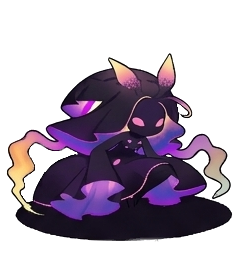
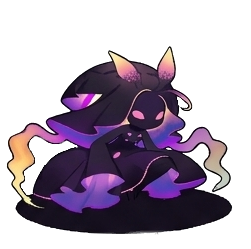
しゃがみコマ数調整（モンスター作成スタジオから登録）

diff --git a/index.html b/index.html
@@ -63,13 +63,14 @@
     </div>
     <button id="btn-home-history" class="icon-btn-corner home-history-button" title="更新履歴" aria-label="更新履歴を開く">📜</button>
     <button id="btn-home-settings" class="icon-btn-corner" title="設定">⚙</button>
-    <small class="home-version">Version 1.27</small>
+    <small class="home-version">Version 1.28</small>
     <button id="btn-debug" class="debug-entry hidden">管理者</button>
     <div id="home-history-modal" class="home-history-modal hidden" role="dialog" aria-modal="true" aria-labelledby="home-history-title">
       <div class="home-history-dialog">
         <button id="home-history-close" class="home-history-close" aria-label="閉じる">×</button>
         <h2 id="home-history-title">📜 更新履歴</h2>
         <div class="home-history-list">
+          <article><time>Version 1.28</time><strong>しゃがみコマ数調整</strong><p>しゃがみコマ数こまこま</p></article>
           <article><time>Version 1.27</time><strong>モンスター作成スタジオ：登録済みモーションを読み込んで微調整できるようにしました</strong><p>※この回はゲーム側の変更はありません。<b>モンスター作成スタジオ</b>の機能追加です。<br>これまで、登録済みのモーションを直したい時は<b>元の画像を選び直すところからやり直し</b>でした。「コマ送りが少し速い」「足元をあと数px下げたい」「もう少し透過を詰めたい」といった小さな手直しでも作り直しになり、元の素材が手元に無いと直せない状態でした。<br>モーションの編集画面に<b>「登録済みのコマを読み込んで編集する」</b>を追加しました。押すと今そのモンスターに登録されているコマがそのまま読み込まれ、<b>1コマの表示フレーム数・足元の位置・表示サイズ</b>を動かせるほか、前回追加した<b>コマごとの背景ブラシ</b>や<b>コマ個別の抜き方</b>もそのまま使えます。<br>読み込んだ時は<b>登録時の見た目をそのまま復元</b>します。足元と表示サイズは登録時の値から逆算して合わせ直し、当たり判定の横幅も勝手に書き換えません。そのため、読み込んだだけではゲーム内の大きさや立ち位置は一切変わりません。書き戻し先も登録済みと同じ場所なので、直したいところだけ直して確定できます。</p></article>
           <article><time>Version 1.26</time><strong>イルミネしゃがみモーション追加</strong><p>イルミネしゃがみモーション追加！</p></article>
           <article><time>Version 1.25</time><strong>モンスター作成スタジオ：背景の透過をコマごとに調整できるようにしました</strong><p>※この回はゲーム側の変更はありません。<b>モンスター作成スタジオ</b>の機能追加です。<br>これまで背景の透過は<b>モーション全体に同じ設定</b>しかかけられず、コマによって背景の明るさが違う素材だと、どこかのコマが必ず抜けきらない状態でした。画像を並べて追加した時・動画からコマを取り出した時・スプライトシートを読み込んだ時の<b>すべてで、コマごとに設定できる</b>ようになります。<br>コマ一覧の各コマに<b>鉛筆ボタン</b>が付きました。押すとそのコマだけを大きく表示する調整画面が開きます。ここでは<b>背景ブラシ</b>が使えます。<b>消す</b>でなぞった所を透明にし、<b>戻す</b>で自動処理が消しすぎた所を元の絵に戻せます。<b>ブラシの大きさ</b>と<b>やわらかさ</b>を指定でき、やわらかくすると縁がぼやけて自然になじみます。1つ戻す・塗りを全部消すも用意しました。2本指でつまむと拡大縮小、「移動」で位置をずらせます。<br>同じ画面で<b>このコマだけ別の抜き方にする</b>（四隅/白/黒/透過済みと、しきい値）も選べます。手を入れたコマには一覧で印が付くので、どのコマを触ったか後から分かります。<br>あわせて、<b>スプライトシートの取り込み</b>を作り直しました。以前は取り込む時点で背景を抜いた絵を素材にしていたため、取り込んだ後からしきい値を変えられませんでした。今は<b>抜く前の絵を素材として持つ</b>ので、取り込んだ後でも何度でも調整し直せます（足元そろえはこれまでどおり働きます）。</p></article>

diff --git a/service-worker.js b/service-worker.js
@@ -1,4 +1,4 @@
-const CACHE_NAME = 'smamon-app-v127';
+const CACHE_NAME = 'smamon-app-v128';
 const APP_SHELL = [
   './',
   './index.html',
